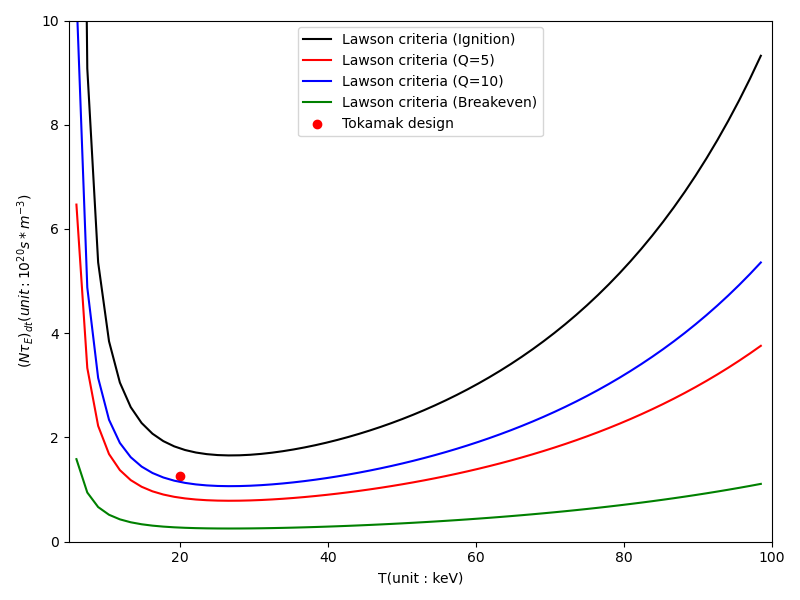
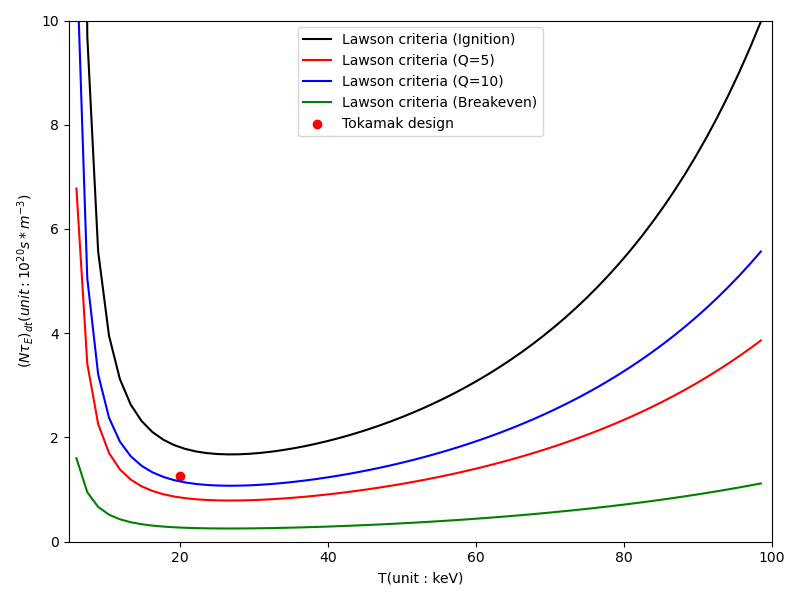
update code

diff --git a/config/device_info.py b/config/device_info.py
@@ -95,10 +95,10 @@ config_by_rl = {
     "p_avg":8.0 * 1.01 * 10 ** 5,
     "conversion_efficiency":0.5,
     "absorption_efficiency":0.8,
-    "betan":3.5,
+    "betan":3.75,
     "Q":10,
     "k":1.7,
-    "epsilon": 2.8, 
+    "epsilon": 3.0, 
     "tri":0,
     "thermal_efficiency":0.4,
     "electric_power":1000 * 10 ** 6,
@@ -116,10 +116,10 @@ config_by_rl = {
     "breeding_cs":950 * 10 ** (-28),
     "E_thres":0.025 * 10 ** (-6),
     "B0":16,
-    "H":1.3,
+    "H":1.5,
     "maximum_allowable_J":20 * 10 ** 6 * 2.25,
     "maximum_allowable_stress":600 * 10 ** 6 * 2.25,
-    "RF_recirculating_rate":0.2,
+    "RF_recirculating_rate":0.11,
     "pb_density" : 8.98 * 10 ** 6 / (204 + 7 * 17 / 83) * 6.02 * 10 ** 23, # None
     "cs_pb_scatter" : 2.410 * 10 ** (-28),
     "cs_pb_absorption" : 0.171 * 10 ** (-28),

diff --git a/find_optimal.py b/find_optimal.py
@@ -129,7 +129,7 @@ if __name__ == "__main__":
         0.1,
         0.1,
         device,
-        100000,
+        10000,
         128,
         "./weights/ppo_best.pt",
         "./weights/ppo_last.pt",
